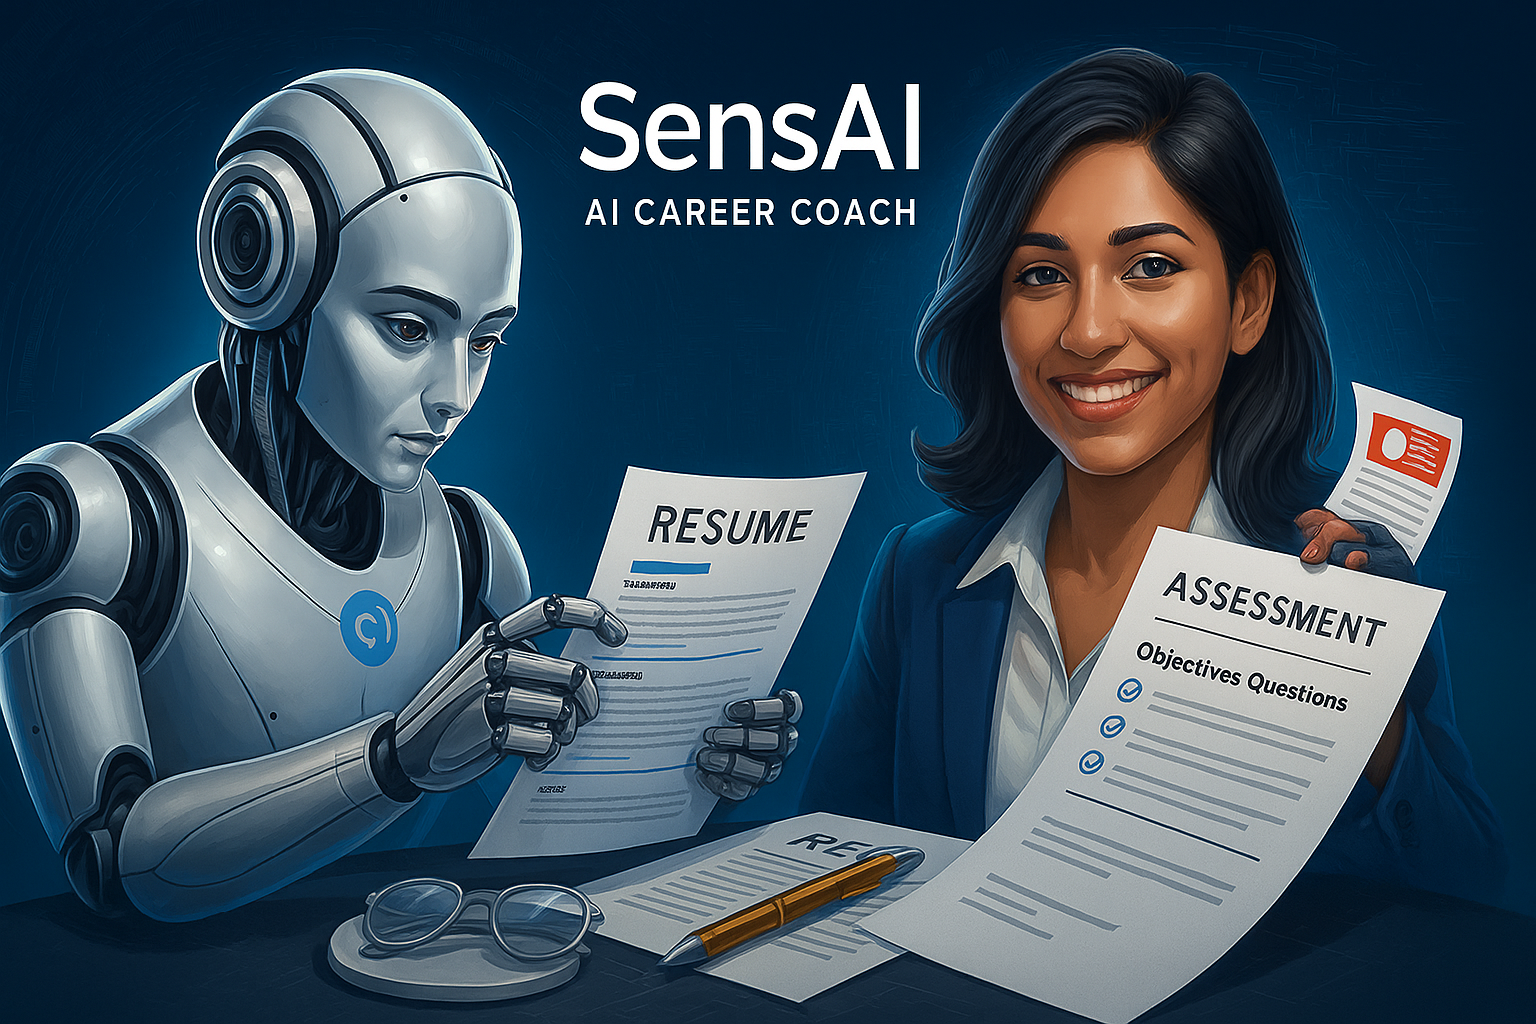
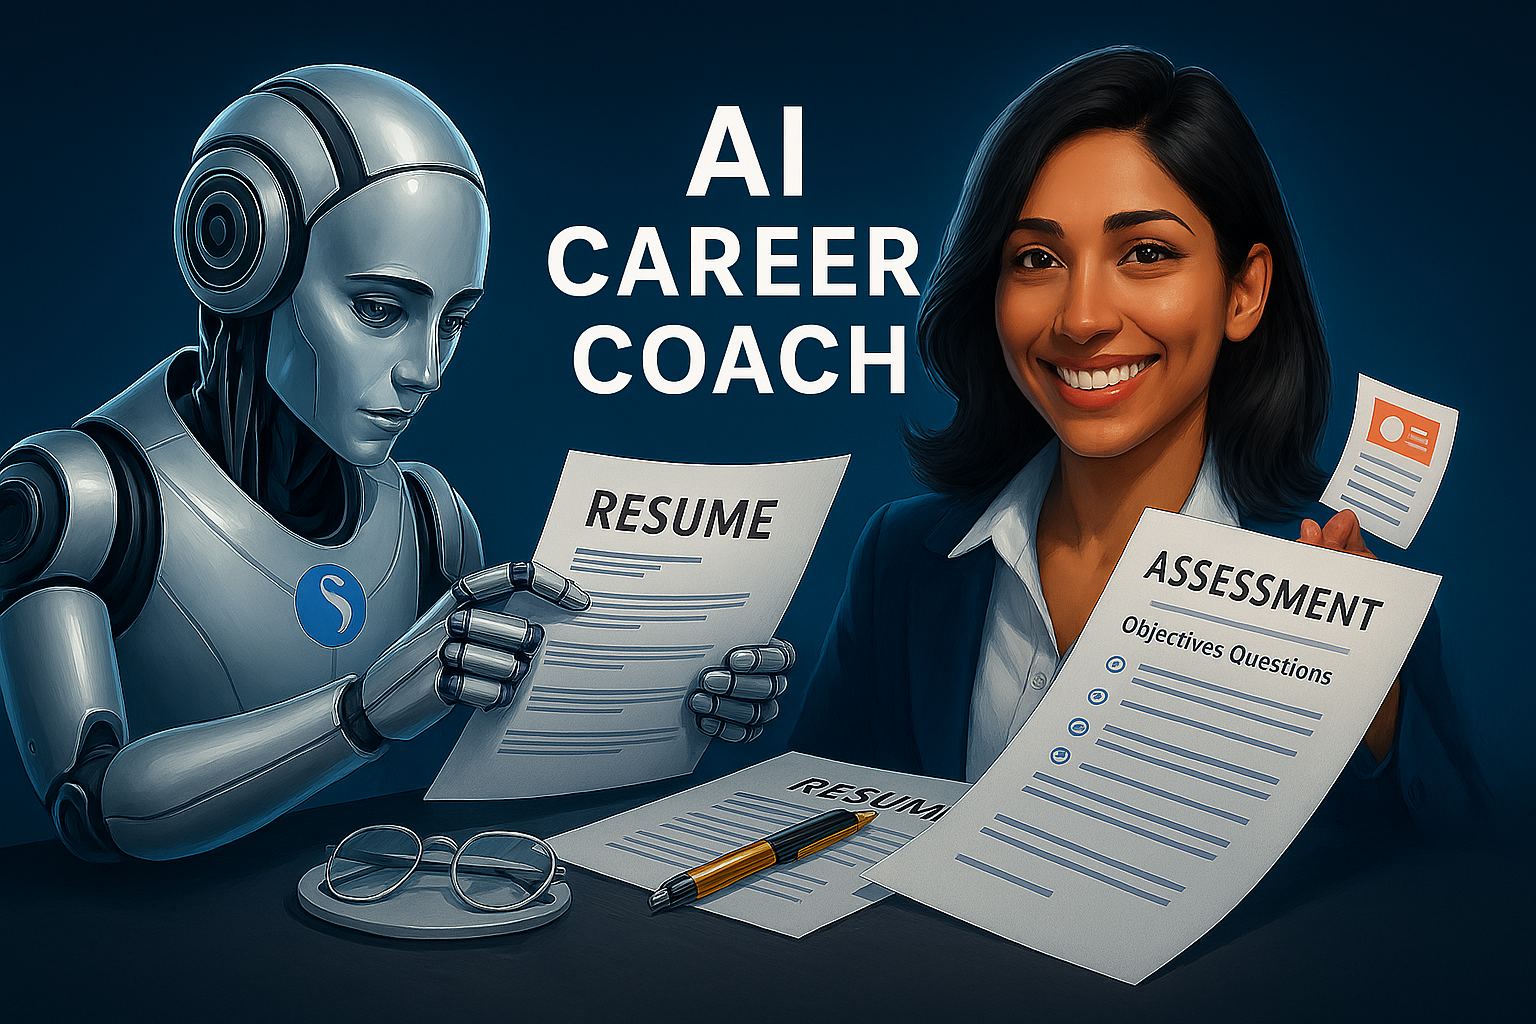
fixed issues

diff --git a/data/faqs.js b/data/faqs.js
@@ -1,32 +1,33 @@
 export const faqs = [
   {
-    question: "What makes Sensai unique as a career development tool?",
+    question: "What makes ForgeResume unique as a career development tool?",
     answer:
-      "Sensai combines AI-powered career tools with industry-specific insights to help you advance your career. Our platform offers three main features: an intelligent resume builder, a cover letter generator, and an adaptive interview preparation system. Each tool is tailored to your industry and skills, providing personalized guidance for your professional journey.",
+      " ForgeResume combines AI-powered career tools with industry-specific insights to help you advance your career. Our platform offers three main features: an intelligent resume builder, a cover letter generator, and an adaptive interview preparation system. Each tool is tailored to your industry and skills, providing personalized guidance for your professional journey.",
   },
   {
-    question: "How does Sensai create tailored content?",
+    question: "How does ForgeResume create tailored content?",
     answer:
-      "Sensai learns about your industry, experience, and skills during onboarding. It then uses this information to generate customized resumes, cover letters, and interview questions. The content is specifically aligned with your professional background and industry standards, making it highly relevant and effective.",
+      "ForgeResume learns about your industry, experience, and skills during onboarding. It then uses this information to generate customized resumes, cover letters, and interview questions. The content is specifically aligned with your professional background and industry standards, making it highly relevant and effective.",
   },
   {
-    question: "How accurate and up-to-date are Sensai's industry insights?",
+    question:
+      "How accurate and up-to-date are ForgeResume's industry insights?",
     answer:
       "We update our industry insights weekly using advanced AI analysis of current market trends. This includes salary data, in-demand skills, and industry growth patterns. Our system constantly evolves to ensure you have the most relevant information for your career decisions.",
   },
   {
-    question: "Is my data secure with Sensai?",
+    question: "Is my data secure with ForgeResume?",
     answer:
       "Absolutely. We prioritize the security of your professional information. All data is encrypted and securely stored using industry-standard practices. We use Clerk for authentication and never share your personal information with third parties.",
   },
   {
     question: "How can I track my interview preparation progress?",
     answer:
-      "Sensai tracks your performance across multiple practice interviews, providing detailed analytics and improvement suggestions. You can view your progress over time, identify areas for improvement, and receive AI-generated tips to enhance your interview skills based on your responses.",
+      "ForgeResume tracks your performance across multiple practice interviews, providing detailed analytics and improvement suggestions. You can view your progress over time, identify areas for improvement, and receive AI-generated tips to enhance your interview skills based on your responses.",
   },
   {
     question: "Can I edit the AI-generated content?",
     answer:
-      "Yes! While Sensai generates high-quality initial content, you have full control to edit and customize all generated resumes, cover letters, and other content. Our markdown editor makes it easy to refine the content to perfectly match your needs.",
+      "Yes! While ForgeResume generates high-quality initial content, you have full control to edit and customize all generated resumes, cover letters, and other content. Our markdown editor makes it easy to refine the content to perfectly match your needs.",
   },
 ];

diff --git a/components/header.jsx b/components/header.jsx
@@ -26,13 +26,17 @@ export default async function Header() {
     <header className="fixed top-0 w-full border-b bg-background/80 backdrop-blur-md z-50 supports-[backdrop-filter]:bg-background/60">
       <nav className="container mx-auto px-4 h-16 flex items-center justify-between">
         <Link href="/">
-          <Image
+          {/* <Image
             src={"/logo.png"}
             alt="Sensai Logo"
             width={200}
             height={60}
             className="h-12 py-1 w-auto object-contain"
-          />
+          /> */}
+
+          <h1 className="text-3xl">
+            FORGE<span className="text-blue-800">RESUME</span>
+          </h1>
         </Link>
 
         {/* Action Buttons */}
@@ -79,7 +83,7 @@ export default async function Header() {
                 <DropdownMenuItem asChild>
                   <Link href="/interview" className="flex items-center gap-2">
                     <GraduationCap className="h-4 w-4" />
-                    Interview Prep
+                    Quiz Module
                   </Link>
                 </DropdownMenuItem>
               </DropdownMenuContent>

diff --git a/components/hero.jsx b/components/hero.jsx
@@ -35,20 +35,14 @@ const HeroSection = () => {
             <br />
             Professional Success
           </h1>
-          <p className="mx-auto max-w-[600px] text-muted-foreground md:text-xl">
-            Advance your career with personalized guidance, interview prep, and
-            AI-powered tools for job success.
+          <p className="mx-auto max-w-[780px] text-muted-foreground md:text-xl">
+            Empowering professionals with tailored career insights, AI driven interview prep and modern job application tools
           </p>
         </div>
         <div className="flex justify-center space-x-4">
           <Link href="/dashboard">
             <Button size="lg" className="px-8">
               Get Started
-            </Button>
-          </Link>
-          <Link href="https://www.youtube.com/@codebubble754">
-            <Button size="lg" variant="outline" className="px-8">
-              Watch Demo
             </Button>
           </Link>
         </div>

diff --git a/app/layout.js b/app/layout.js
@@ -10,7 +10,7 @@ import Link from "next/link";
 const inter = Inter({ subsets: ["latin"] });
 
 export const metadata = {
-  title: "SensAI - AI Career Coach",
+  title: "ForgeResume - AI Career Coach",
   description: "",
 };
 
